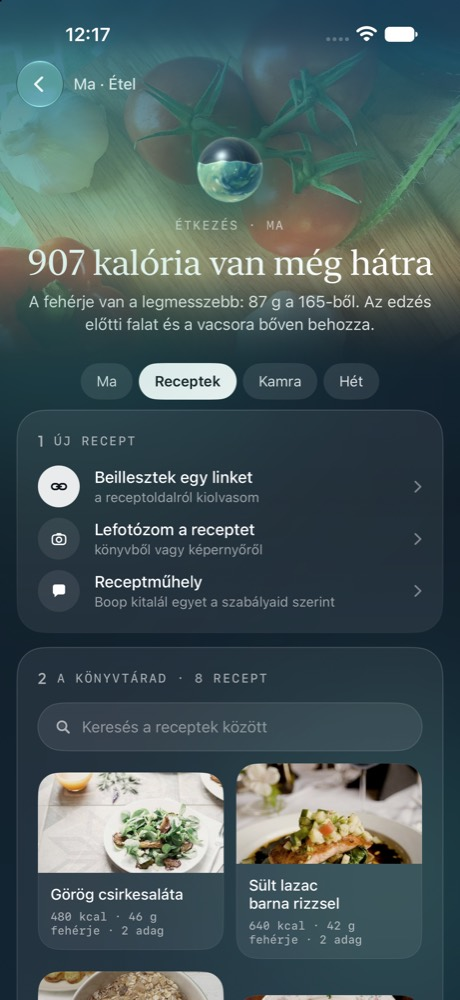
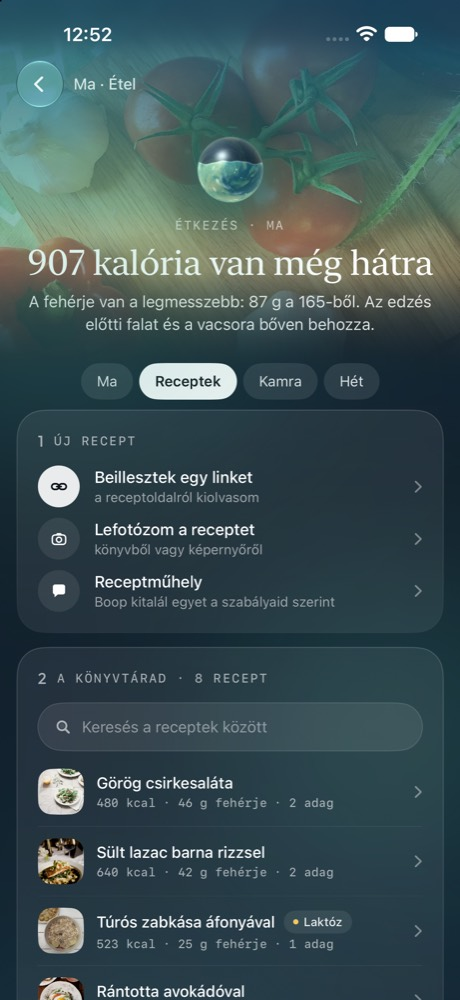
docs(boop): B4 spike — one recipe per row in Receptek (owner, 2026-11-13) (mezo-r36n9.14)
The two-column card grid cut recipe names and left no room for the numbers; a row carries
the thumbnail, the name with its sensitivity badge, and kcal/protein/servings in full.

diff --git a/docs/design_2.0/prototypes/boop-ios-spike/BoopSpike/EtelTabs.swift b/docs/design_2.0/prototypes/boop-ios-spike/BoopSpike/EtelTabs.swift
@@ -19,12 +19,11 @@ struct EtelReceptek: View {
                 }
             }
             ESection(n: 2, label: "A KÖNYVTÁRAD · 8 RECEPT") {
-                VStack(spacing: 12) {
-                    searchField
-                    LazyVGrid(columns: [GridItem(.flexible(), spacing: 12), GridItem(.flexible(), spacing: 12)], spacing: 12) {
-                        ForEach(Array(EData.recipes.enumerated()), id: \.offset) { _, r in
-                            recipeCard(r)
-                        }
+                VStack(spacing: 0) {
+                    searchField.padding(.bottom, 6)
+                    ForEach(Array(EData.recipes.enumerated()), id: \.offset) { k, r in
+                        recipeRow(r)
+                        if k < EData.recipes.count - 1 { Rectangle().fill(.white.opacity(0.07)).frame(height: 0.5) }
                     }
                 }
             }
@@ -62,24 +61,25 @@ struct EtelReceptek: View {
         .buttonStyle(.plain)
     }
 
-    private func recipeCard(_ r: (String, String, Int, Int, Int, [EFlag])) -> some View {
+    /// One recipe = one row (owner, 2026-11-13): the thumbnail, the name, and everything that matters about it
+    /// on one line underneath — more information fits than in a two-column grid of cards.
+    private func recipeRow(_ r: (String, String, Int, Int, Int, [EFlag])) -> some View {
         Button { onToast("Megnyitom: \(r.0)") } label: {
-            VStack(alignment: .leading, spacing: 0) {
-                photo(r.1).resizable().scaledToFill().saturation(0.8).brightness(-0.06)
-                    .frame(height: 96).frame(maxWidth: .infinity).clipped()
-                VStack(alignment: .leading, spacing: 6) {
-                    Text(r.0).font(.system(size: 14.5, weight: .medium)).foregroundStyle(.white)
-                        .lineLimit(2, reservesSpace: true).multilineTextAlignment(.leading)
+            HStack(spacing: 12) {
+                EThumb(name: r.1, glyph: "bowl-sage", size: 44)
+                VStack(alignment: .leading, spacing: 3) {
+                    HStack(spacing: 8) {
+                        Text(r.0).font(.system(size: 15, weight: .medium)).foregroundStyle(.white).lineLimit(1)
+                        if let f = r.5.first { EFlagBadge(flag: f, compact: true) }
+                        Spacer(minLength: 0)
+                    }
                     Text("\(r.3) kcal · \(r.4) g fehérje · \(r.2) adag")
-                        .font(AuraFont.mono(11)).foregroundStyle(.white.opacity(0.6))
-                    if let f = r.5.first { EFlagBadge(flag: f) }
+                        .font(AuraFont.mono(11.5)).foregroundStyle(.white.opacity(0.6)).lineLimit(1)
                 }
-                .padding(12).frame(maxWidth: .infinity, alignment: .leading)
+                Spacer(minLength: 8)
+                Image(systemName: "chevron.right").font(.system(size: 13, weight: .semibold)).foregroundStyle(.white.opacity(0.4))
             }
-            .frame(maxWidth: .infinity, alignment: .leading)
-            .background(RoundedRectangle(cornerRadius: 20, style: .continuous).fill(.white.opacity(0.07)))
-            .overlay(RoundedRectangle(cornerRadius: 20, style: .continuous).stroke(.white.opacity(0.1)))
-            .clipShape(RoundedRectangle(cornerRadius: 20, style: .continuous))
+            .padding(.vertical, 11).contentShape(Rectangle())
         }
         .buttonStyle(.plain)
     }
@@ -126,7 +126,7 @@ struct EtelKamra: View {
                                     }
                                 }
                                 Spacer()
-                                if let f = item.5.first { EFlagBadge(flag: f) }
+                                if let f = item.5.first { EFlagBadge(flag: f, compact: true) }
                                 else { Text("nincs adat").font(.system(size: 11)).foregroundStyle(.white.opacity(0.35)) }
                             }
                             .padding(.vertical, 11).contentShape(Rectangle())

diff --git a/docs/design_2.0/prototypes/boop-ios-spike/BoopSpike/EtelSpike.swift b/docs/design_2.0/prototypes/boop-ios-spike/BoopSpike/EtelSpike.swift
@@ -352,10 +352,14 @@ struct ESection<C: View>: View {
 /// The quiet badge of a sensitivity or a processed item.
 struct EFlagBadge: View {
     let flag: EFlag
+    /// In a list row only the key is shown ("Laktóz"), so the row's own text keeps its width.
+    var compact = false
     var body: some View {
         HStack(spacing: 5) {
             Circle().fill(flag.strong ? Color(hex: 0xF4C860) : .white.opacity(0.5)).frame(width: 5, height: 5)
-            Text(flag.text).font(.system(size: 11.5, weight: .medium)).foregroundStyle(.white.opacity(flag.strong ? 0.9 : 0.6))
+            Text(compact ? String(flag.text.split(separator: " ·").first ?? "") : flag.text)
+                .font(.system(size: 11.5, weight: .medium)).foregroundStyle(.white.opacity(flag.strong ? 0.9 : 0.6))
+                .fixedSize()
         }
         .padding(.horizontal, 9).padding(.vertical, 4)
         .background(Capsule().fill(.white.opacity(0.08)))
